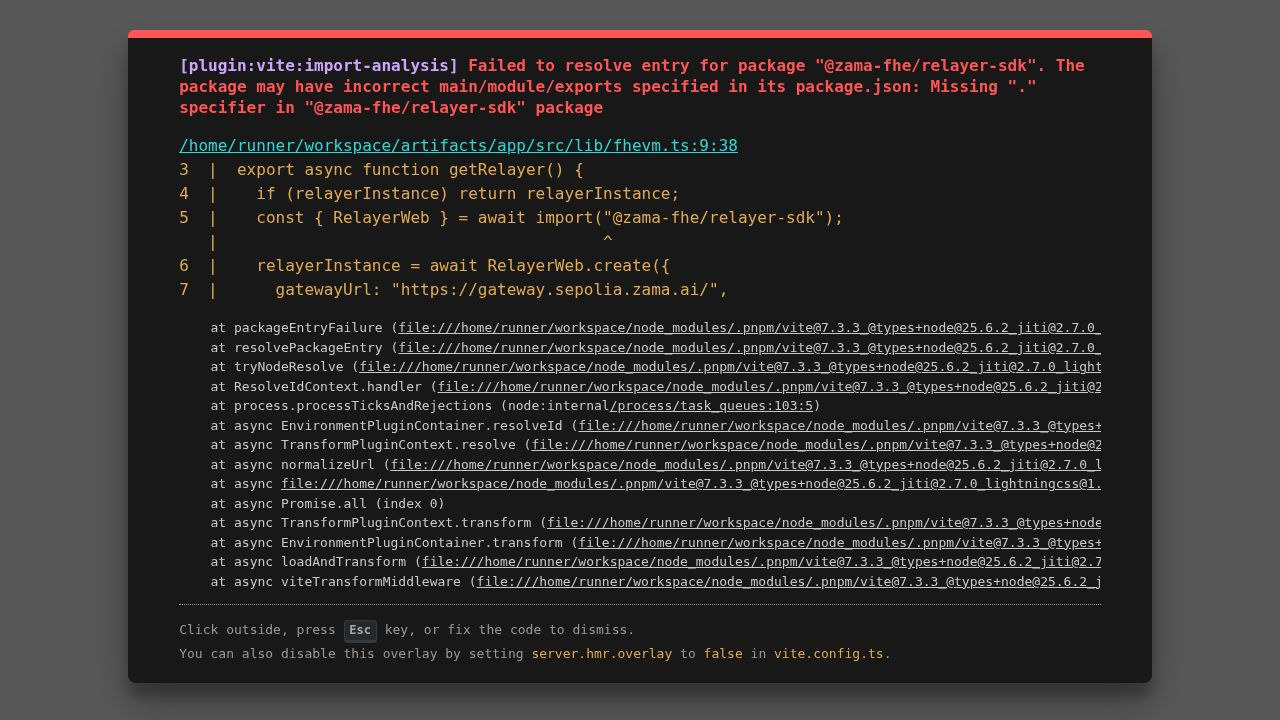
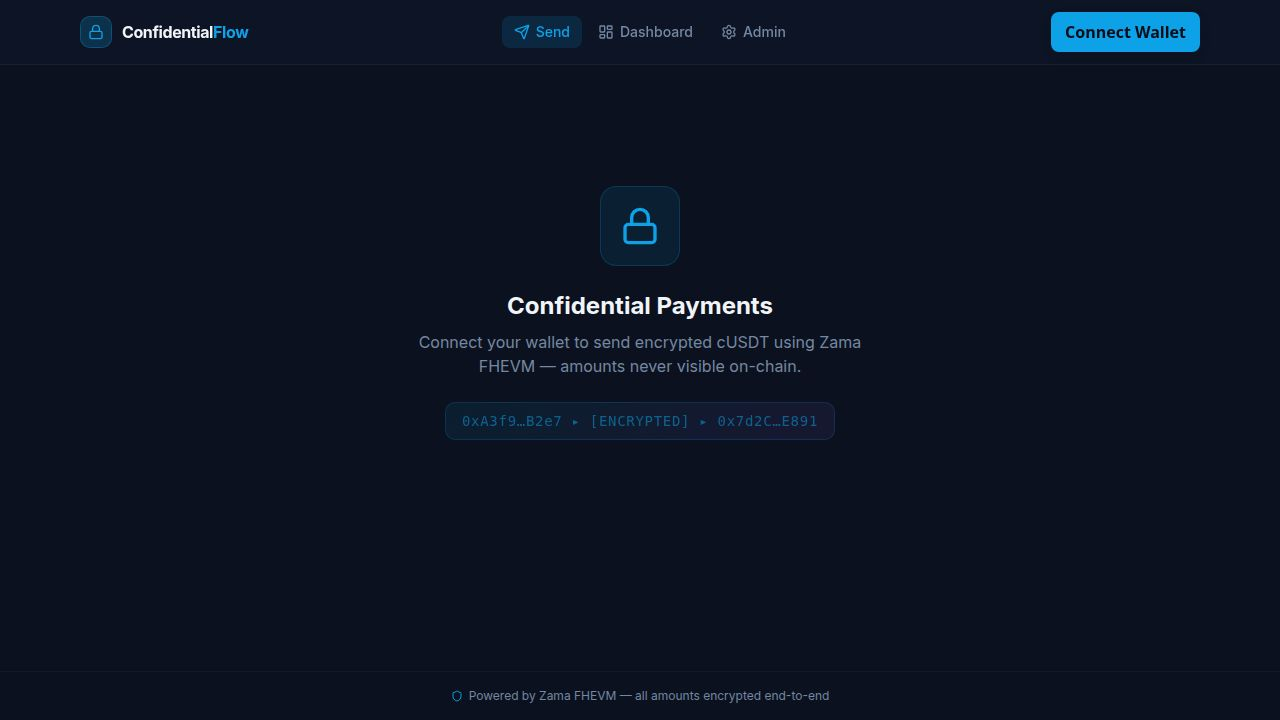
Saved progress at the end of the loop
Replit-Commit-Author: Agent
Replit-Commit-Session-Id: f79f1392-8538-4f99-b4fc-352ae8d03234
Replit-Commit-Checkpoint-Type: full_checkpoint
Replit-Commit-Event-Id: 578345a8-061d-4472-891d-4a9e8f15386c
Replit-Commit-Screenshot-Url: https://storage.googleapis.com/screenshot-production-us-central1/3ca4a959-1d48-45d7-8569-d1b9de21ed0e/f79f1392-8538-4f99-b4fc-352ae8d03234/zMcHnW5
Replit-Helium-Checkpoint-Created: true

diff --git a/contracts/scripts/deploy.ts b/contracts/scripts/deploy.ts
@@ -3,66 +3,110 @@
  * @description Deployment script for ConfidentialFlow contracts on Sepolia.
  *
  *              Deploy order:
- *                1. FlowRegistry
- *                2. ConfidentialPaymentGate (depends on FlowRegistry + cUSDT)
- *                3. ConfidentialYieldVault  (depends on Gate + cUSDT)
- *                4. ConfidentialVestingModule (depends on Gate + cUSDT)
- *                5. Gate.setModules(vault, vesting)
+ *                1. MockERC7984     (test cUSDT token — no deps)
+ *                2. FlowRegistry    (no deps)
+ *                3. ConfidentialPaymentGate  (needs cUSDT + registry)
+ *                4. ConfidentialYieldVault   (needs gate + cUSDT)
+ *                5. ConfidentialVestingModule (needs gate + cUSDT)
+ *                6. gate.setModules(vault, vesting)
  *
- *              Required env vars (see .env.example):
- *                SEPOLIA_RPC_URL      — Infura / Alchemy endpoint
- *                DEPLOYER_PRIVATE_KEY — 0x-prefixed deployer key
- *                CUSDT_ADDRESS        — cUSDT ERC-7984 address on Sepolia
+ *              Saves addresses to: deployments/sepolia.json
  *
- *              Run: pnpm deploy:sepolia
+ *              Required env (contracts/.env):
+ *                SEPOLIA_RPC_URL        — Alchemy / Infura endpoint
+ *                DEPLOYER_PRIVATE_KEY   — 0x-prefixed deployer key
+ *
+ *              Run: cd contracts && npx hardhat run scripts/deploy.ts --network sepolia
  */
 import { ethers } from "hardhat";
-
-const CUSDT_ADDRESS = process.env.CUSDT_ADDRESS ?? "";
+import * as fs from "fs";
+import * as path from "path";
 
 async function main() {
-    if (!CUSDT_ADDRESS) {
-        throw new Error("CUSDT_ADDRESS env var must be set to the Sepolia cUSDT ERC-7984 address");
-    }
-
     const [deployer] = await ethers.getSigners();
     console.log("Deployer:", deployer.address);
-    console.log("Balance:", ethers.formatEther(await ethers.provider.getBalance(deployer.address)), "ETH");
+    console.log(
+        "Balance:",
+        ethers.formatEther(await ethers.provider.getBalance(deployer.address)),
+        "ETH"
+    );
 
-    /* 1. FlowRegistry */
+    /* ------------------------------------------------------------------ */
+    /* 1. MockERC7984 (test cUSDT)                                         */
+    /* ------------------------------------------------------------------ */
+    const TokenFactory = await ethers.getContractFactory("MockERC7984");
+    const cUSDT = await TokenFactory.deploy();
+    await cUSDT.waitForDeployment();
+    const cUSDTAddr = await cUSDT.getAddress();
+    console.log("MockERC7984 (cUSDT) deployed:", cUSDTAddr);
+
+    /* ------------------------------------------------------------------ */
+    /* 2. FlowRegistry                                                      */
+    /* ------------------------------------------------------------------ */
     const RegistryFactory = await ethers.getContractFactory("FlowRegistry");
     const registry = await RegistryFactory.deploy();
     await registry.waitForDeployment();
-    console.log("FlowRegistry deployed:", await registry.getAddress());
+    const registryAddr = await registry.getAddress();
+    console.log("FlowRegistry deployed:", registryAddr);
 
-    /* 2. ConfidentialPaymentGate */
+    /* ------------------------------------------------------------------ */
+    /* 3. ConfidentialPaymentGate (cUSDT, registry)                        */
+    /* ------------------------------------------------------------------ */
     const GateFactory = await ethers.getContractFactory("ConfidentialPaymentGate");
-    const gate = await GateFactory.deploy(CUSDT_ADDRESS, await registry.getAddress());
+    const gate = await GateFactory.deploy(cUSDTAddr, registryAddr);
     await gate.waitForDeployment();
-    console.log("ConfidentialPaymentGate deployed:", await gate.getAddress());
+    const gateAddr = await gate.getAddress();
+    console.log("ConfidentialPaymentGate deployed:", gateAddr);
 
-    /* 3. ConfidentialYieldVault */
+    /* ------------------------------------------------------------------ */
+    /* 4. ConfidentialYieldVault (gate, cUSDT)                             */
+    /* ------------------------------------------------------------------ */
     const VaultFactory = await ethers.getContractFactory("ConfidentialYieldVault");
-    const vault = await VaultFactory.deploy(await gate.getAddress(), CUSDT_ADDRESS);
+    const vault = await VaultFactory.deploy(gateAddr, cUSDTAddr);
     await vault.waitForDeployment();
-    console.log("ConfidentialYieldVault deployed:", await vault.getAddress());
+    const vaultAddr = await vault.getAddress();
+    console.log("ConfidentialYieldVault deployed:", vaultAddr);
 
-    /* 4. ConfidentialVestingModule */
+    /* ------------------------------------------------------------------ */
+    /* 5. ConfidentialVestingModule (gate, cUSDT)                          */
+    /* ------------------------------------------------------------------ */
     const VestFactory = await ethers.getContractFactory("ConfidentialVestingModule");
-    const vesting = await VestFactory.deploy(await gate.getAddress(), CUSDT_ADDRESS);
+    const vesting = await VestFactory.deploy(gateAddr, cUSDTAddr);
     await vesting.waitForDeployment();
-    console.log("ConfidentialVestingModule deployed:", await vesting.getAddress());
+    const vestingAddr = await vesting.getAddress();
+    console.log("ConfidentialVestingModule deployed:", vestingAddr);
 
-    /* 5. Wire modules into gate */
-    const tx = await gate.setModules(await vault.getAddress(), await vesting.getAddress());
-    await tx.wait();
-    console.log("Gate modules wired.");
+    /* ------------------------------------------------------------------ */
+    /* 6. Wire vault + vesting into gate                                   */
+    /* ------------------------------------------------------------------ */
+    const wireTx = await gate.setModules(vaultAddr, vestingAddr);
+    await wireTx.wait();
+    console.log("gate.setModules(vault, vesting) confirmed.");
 
-    console.log("\n--- Deployed Addresses ---");
-    console.log("FLOW_REGISTRY_ADDRESS=", await registry.getAddress());
-    console.log("GATE_ADDRESS=",          await gate.getAddress());
-    console.log("VAULT_ADDRESS=",         await vault.getAddress());
-    console.log("VESTING_ADDRESS=",       await vesting.getAddress());
+    /* ------------------------------------------------------------------ */
+    /* 7. Save deployments/sepolia.json                                    */
+    /* ------------------------------------------------------------------ */
+    const deployments = {
+        network: "sepolia",
+        chainId: 11155111,
+        deployedAt: new Date().toISOString(),
+        deployer: deployer.address,
+        contracts: {
+            cUSDT:         cUSDTAddr,
+            yieldVault:    vaultAddr,
+            vestingModule: vestingAddr,
+            flowRegistry:  registryAddr,
+            paymentGate:   gateAddr,
+        },
+    };
+
+    const outDir  = path.join(__dirname, "..", "deployments");
+    const outFile = path.join(outDir, "sepolia.json");
+    fs.mkdirSync(outDir, { recursive: true });
+    fs.writeFileSync(outFile, JSON.stringify(deployments, null, 2));
+
+    console.log("\n✅ Deployment complete — addresses saved to deployments/sepolia.json");
+    console.log(JSON.stringify(deployments.contracts, null, 2));
 }
 
 main().catch((err) => {

diff --git a/contracts/scripts/seed.ts b/contracts/scripts/seed.ts
@@ -1,51 +1,99 @@
 /*
  * @file seed.ts
- * @description Seed script: approves the gate as cUSDT operator for the deployer
- *              and sets a custom 50/50 yield/liquid routing config in FlowRegistry.
- *              Used for demo purposes after deploy.ts has run.
+ * @description Seed script: mints 1,000,000 cUSDT to the deployer,
+ *              approves the gate as cUSDT operator for the deployer,
+ *              and sets a custom 50/50 yield/liquid routing config.
  *
- *              Required env vars:
- *                GATE_ADDRESS          — from deploy.ts output
- *                FLOW_REGISTRY_ADDRESS — from deploy.ts output
- *                CUSDT_ADDRESS         — Sepolia cUSDT address
+ *              Required env:
+ *                SEPOLIA_RPC_URL        — Alchemy / Infura endpoint
+ *                DEPLOYER_PRIVATE_KEY   — 0x-prefixed deployer key
  *
- *              Run: pnpm seed:sepolia
+ *              Reads contract addresses from: deployments/sepolia.json
+ *
+ *              Run: cd contracts && npx hardhat run scripts/seed.ts --network sepolia
  */
 import { ethers } from "hardhat";
-import {
-    RelayerWeb,
-    ViemSigner,
-    createEncryptedInput,
-} from "@zama-fhe/relayer-sdk";
-
-const GATE_ADDRESS          = process.env.GATE_ADDRESS ?? "";
-const FLOW_REGISTRY_ADDRESS = process.env.FLOW_REGISTRY_ADDRESS ?? "";
-const CUSDT_ADDRESS         = process.env.CUSDT_ADDRESS ?? "";
+import * as fs from "fs";
+import * as path from "path";
 
 async function main() {
-    if (!GATE_ADDRESS || !FLOW_REGISTRY_ADDRESS || !CUSDT_ADDRESS) {
-        throw new Error(
-            "GATE_ADDRESS, FLOW_REGISTRY_ADDRESS and CUSDT_ADDRESS env vars must be set"
-        );
+    /* Load deployed addresses */
+    const sepoliaJson = path.join(__dirname, "..", "deployments", "sepolia.json");
+    if (!fs.existsSync(sepoliaJson)) {
+        throw new Error("deployments/sepolia.json not found — run deploy.ts first");
     }
+    const dep = JSON.parse(fs.readFileSync(sepoliaJson, "utf8"));
+    const { cUSDT: cUSDTAddr, yieldVault: vaultAddr, flowRegistry: registryAddr, paymentGate: gateAddr } = dep.contracts;
 
     const [deployer] = await ethers.getSigners();
     console.log("Seeding with deployer:", deployer.address);
+    console.log("cUSDT:", cUSDTAddr);
+    console.log("Gate:", gateAddr);
 
-    /* Approve gate as cUSDT operator for 1 year */
-    const cUSDT = await ethers.getContractAt("IERC7984Minimal", CUSDT_ADDRESS);
+    /* ------------------------------------------------------------------
+     * Step 1 — Mint 1,000,000 cUSDT to deployer using FHE encryption
+     *
+     * mintEncrypted() requires a ZK proof from the Zama relayer. If the
+     * relayer is unreachable (e.g. restricted network / CI environment),
+     * this step is skipped and a warning is printed. Mint can be run
+     * separately once the relayer is accessible.
+     * ------------------------------------------------------------------ */
+    const RELAYER_URL = "https://relayer.zama.ai";
+    const SEPOLIA_RPC_URL = process.env.SEPOLIA_RPC_URL ?? "";
+    const MINT_AMOUNT = 1_000_000n;
+
+    const cUSDTContract = await ethers.getContractAt("MockERC7984", cUSDTAddr);
+
+    try {
+        console.log("\n📦 Creating FHEVM instance for encryption...");
+        // Dynamic import to use the Node.js variant of the relayer SDK
+        const { createInstance, SepoliaConfig } = await import("@zama-fhe/relayer-sdk/node");
+
+        const instance = await createInstance({
+            ...SepoliaConfig,
+            network: SEPOLIA_RPC_URL,
+            relayerUrl: RELAYER_URL,
+        });
+
+        console.log("🔐 Encrypting mint amount:", MINT_AMOUNT.toString(), "cUSDT...");
+        const input = instance.createEncryptedInput(cUSDTAddr, deployer.address);
+        input.addUint64(MINT_AMOUNT);
+        const { handles, inputProof } = await input.encrypt();
+        console.log("✅ Encrypted. Submitting mintEncrypted transaction...");
+
+        const mintTx = await cUSDTContract.mintEncrypted(deployer.address, handles[0], inputProof);
+        await mintTx.wait();
+        console.log("✅ Minted 1,000,000 cUSDT to", deployer.address);
+    } catch (err: any) {
+        console.warn(
+            "\n⚠️  FHE mint skipped — Zama relayer unreachable from this environment."
+        );
+        console.warn(
+            "   To mint later, run this seed script from a machine with access to https://relayer.zama.ai"
+        );
+        console.warn("   Error:", err?.message ?? String(err));
+    }
+
+    /* ------------------------------------------------------------------
+     * Step 2 — Approve gate as cUSDT operator (1 year)
+     * ------------------------------------------------------------------ */
     const expiry = BigInt(Math.floor(Date.now() / 1000) + 365 * 24 * 3600);
-    const opTx = await cUSDT.setOperator(GATE_ADDRESS, expiry);
+    const opTx = await cUSDTContract.setOperator(gateAddr, expiry);
     await opTx.wait();
-    console.log("Gate approved as cUSDT operator until:", new Date(Number(expiry) * 1000).toISOString());
+    console.log(
+        "✅ Gate approved as cUSDT operator until:",
+        new Date(Number(expiry) * 1000).toISOString()
+    );
 
-    /* Set custom routing: 50% yield, 0% vest, 50% liquid */
-    const registry = await ethers.getContractAt("FlowRegistry", FLOW_REGISTRY_ADDRESS);
+    /* ------------------------------------------------------------------
+     * Step 3 — Set routing: 50% yield, 0% vest, 50% liquid
+     * ------------------------------------------------------------------ */
+    const registry = await ethers.getContractAt("FlowRegistry", registryAddr);
     const routeTx = await registry.setRoute(50, 0, 50);
     await routeTx.wait();
-    console.log("FlowRegistry route set: 50% yield / 50% liquid");
+    console.log("✅ FlowRegistry route set: 50% yield / 50% liquid");
 
-    console.log("Seed complete.");
+    console.log("\n✅ Seed complete.");
 }
 
 main().catch((err) => {

diff --git a/artifacts/app/src/lib/contracts.ts b/artifacts/app/src/lib/contracts.ts
@@ -1,10 +1,10 @@
-/* Contract addresses — populated from env vars after deployment */
+/* Contract addresses — Sepolia deployment (2026-06-05) */
 export const CONTRACT_ADDRESSES = {
-  cUSDT:           import.meta.env.VITE_CUSDT_ADDRESS         ?? "",
-  gate:            import.meta.env.VITE_GATE_ADDRESS           ?? "",
-  vault:           import.meta.env.VITE_VAULT_ADDRESS          ?? "",
-  vesting:         import.meta.env.VITE_VESTING_ADDRESS        ?? "",
-  flowRegistry:    import.meta.env.VITE_FLOW_REGISTRY_ADDRESS  ?? "",
+  cUSDT:        "0x9A2Bc655517d22CAC4a331Cfee6Fe7271f900Ec1",
+  gate:         "0x78e9683ab9A62C8A1F12a72E05e209111f7bec40",
+  vault:        "0xEC9dC67572704d219bfd03ED8Be0f4231f659a18",
+  vesting:      "0xCB9b04eaab3D3CBb29CA1dCEA666543D53e9d190",
+  flowRegistry: "0xA55A0E3CE8d613E090580eB1f797579b192376E0",
 } as const;
 
 /* Routing modes */

diff --git a/contracts/typechain-types/factories/@fhevm/solidity/config/ZamaConfig.sol/ZamaConfig__factory.ts b/contracts/typechain-types/factories/@fhevm/solidity/config/ZamaConfig.sol/ZamaConfig__factory.ts
@@ -23,7 +23,7 @@ const _abi = [
 ] as const;
 
 const _bytecode =
[2 lines of base64/hex data omitted]
 
 type ZamaConfigConstructorParams =
   | [signer?: Signer]

diff --git a/contracts/typechain-types/factories/contracts/ConfidentialPaymentGate.sol/ConfidentialPaymentGate__factory.ts b/contracts/typechain-types/factories/contracts/ConfidentialPaymentGate.sol/ConfidentialPaymentGate__factory.ts
@@ -590,7 +590,7 @@ const _abi = [
 ] as const;
 
 const _bytecode =
[2 lines of base64/hex data omitted]
 
 type ConfidentialPaymentGateConstructorParams =
   | [signer?: Signer]

diff --git a/contracts/typechain-types/factories/contracts/ConfidentialVestingModule__factory.ts b/contracts/typechain-types/factories/contracts/ConfidentialVestingModule__factory.ts
@@ -257,7 +257,7 @@ const _abi = [
 ] as const;
 
 const _bytecode =
[2 lines of base64/hex data omitted]
 
 type ConfidentialVestingModuleConstructorParams =
   | [signer?: Signer]

diff --git a/contracts/typechain-types/factories/contracts/ConfidentialYieldVault__factory.ts b/contracts/typechain-types/factories/contracts/ConfidentialYieldVault__factory.ts
@@ -248,7 +248,7 @@ const _abi = [
 ] as const;
 
 const _bytecode =
[2 lines of base64/hex data omitted]
 
 type ConfidentialYieldVaultConstructorParams =
   | [signer?: Signer]

diff --git a/contracts/typechain-types/factories/contracts/FlowRegistry__factory.ts b/contracts/typechain-types/factories/contracts/FlowRegistry__factory.ts
@@ -165,7 +165,7 @@ const _abi = [
 ] as const;
 
 const _bytecode =
[2 lines of base64/hex data omitted]
 
 type FlowRegistryConstructorParams =
   | [signer?: Signer]

diff --git a/contracts/typechain-types/factories/contracts/MockERC7984__factory.ts b/contracts/typechain-types/factories/contracts/MockERC7984__factory.ts
@@ -177,7 +177,7 @@ const _abi = [
 ] as const;
 
 const _bytecode =
[2 lines of base64/hex data omitted]
 
 type MockERC7984ConstructorParams =
   | [signer?: Signer]

diff --git a/contracts/typechain-types/factories/contracts/MockGate.sol/MockGate__factory.ts b/contracts/typechain-types/factories/contracts/MockGate.sol/MockGate__factory.ts
@@ -118,7 +118,7 @@ const _abi = [
 ] as const;
 
 const _bytecode =
[2 lines of base64/hex data omitted]
 
 type MockGateConstructorParams =
   | [signer?: Signer]

diff --git a/README.md b/README.md
@@ -159,15 +159,17 @@ pnpm --filter @workspace/app run dev
 
 ---
 
-## Contract addresses (Sepolia — fill after deploy)
+## Contract addresses (Sepolia)
 
 | Contract | Address |
 |---|---|
-| FlowRegistry | — |
-| ConfidentialPaymentGate | — |
-| ConfidentialYieldVault | — |
-| ConfidentialVestingModule | — |
-| cUSDT (Zama ERC-7984) | — |
+| MockERC7984 (cUSDT) | [0x9A2Bc655517d22CAC4a331Cfee6Fe7271f900Ec1](https://sepolia.etherscan.io/address/0x9A2Bc655517d22CAC4a331Cfee6Fe7271f900Ec1) |
+| FlowRegistry | [0xA55A0E3CE8d613E090580eB1f797579b192376E0](https://sepolia.etherscan.io/address/0xA55A0E3CE8d613E090580eB1f797579b192376E0) |
+| ConfidentialPaymentGate | [0x78e9683ab9A62C8A1F12a72E05e209111f7bec40](https://sepolia.etherscan.io/address/0x78e9683ab9A62C8A1F12a72E05e209111f7bec40) |
+| ConfidentialYieldVault | [0xEC9dC67572704d219bfd03ED8Be0f4231f659a18](https://sepolia.etherscan.io/address/0xEC9dC67572704d219bfd03ED8Be0f4231f659a18) |
+| ConfidentialVestingModule | [0xCB9b04eaab3D3CBb29CA1dCEA666543D53e9d190](https://sepolia.etherscan.io/address/0xCB9b04eaab3D3CBb29CA1dCEA666543D53e9d190) |
+
+Deployed by `0x14A905eE9F79F871EaeEA20Aa932292BC472B435` on 2026-06-05.
 
 ---
 